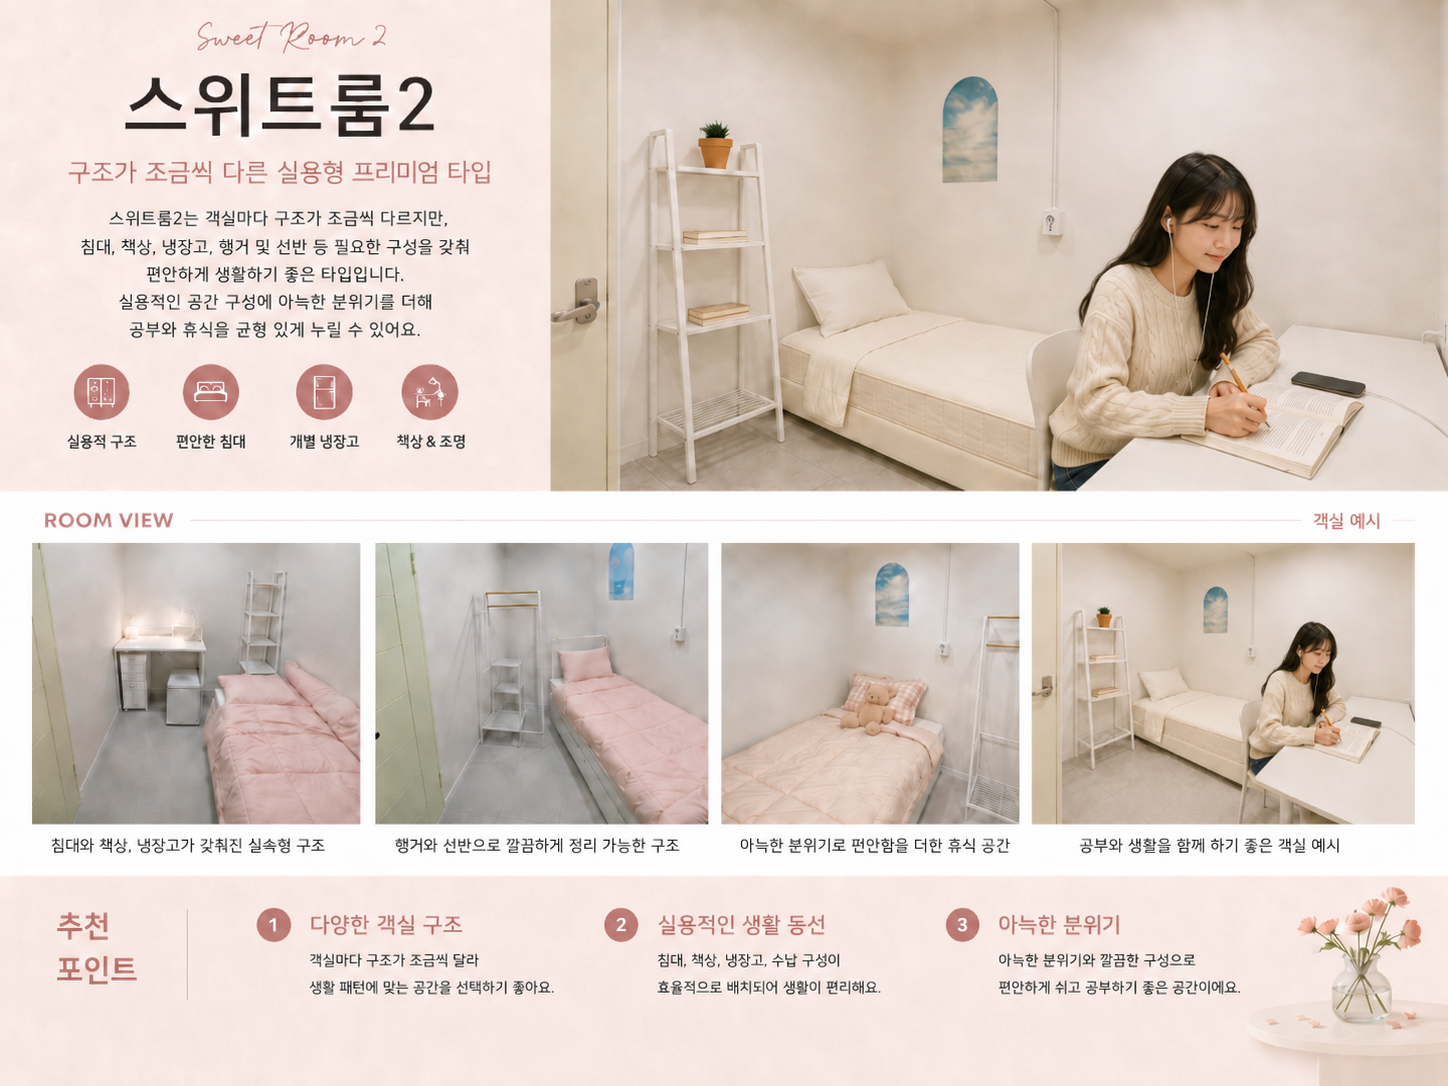
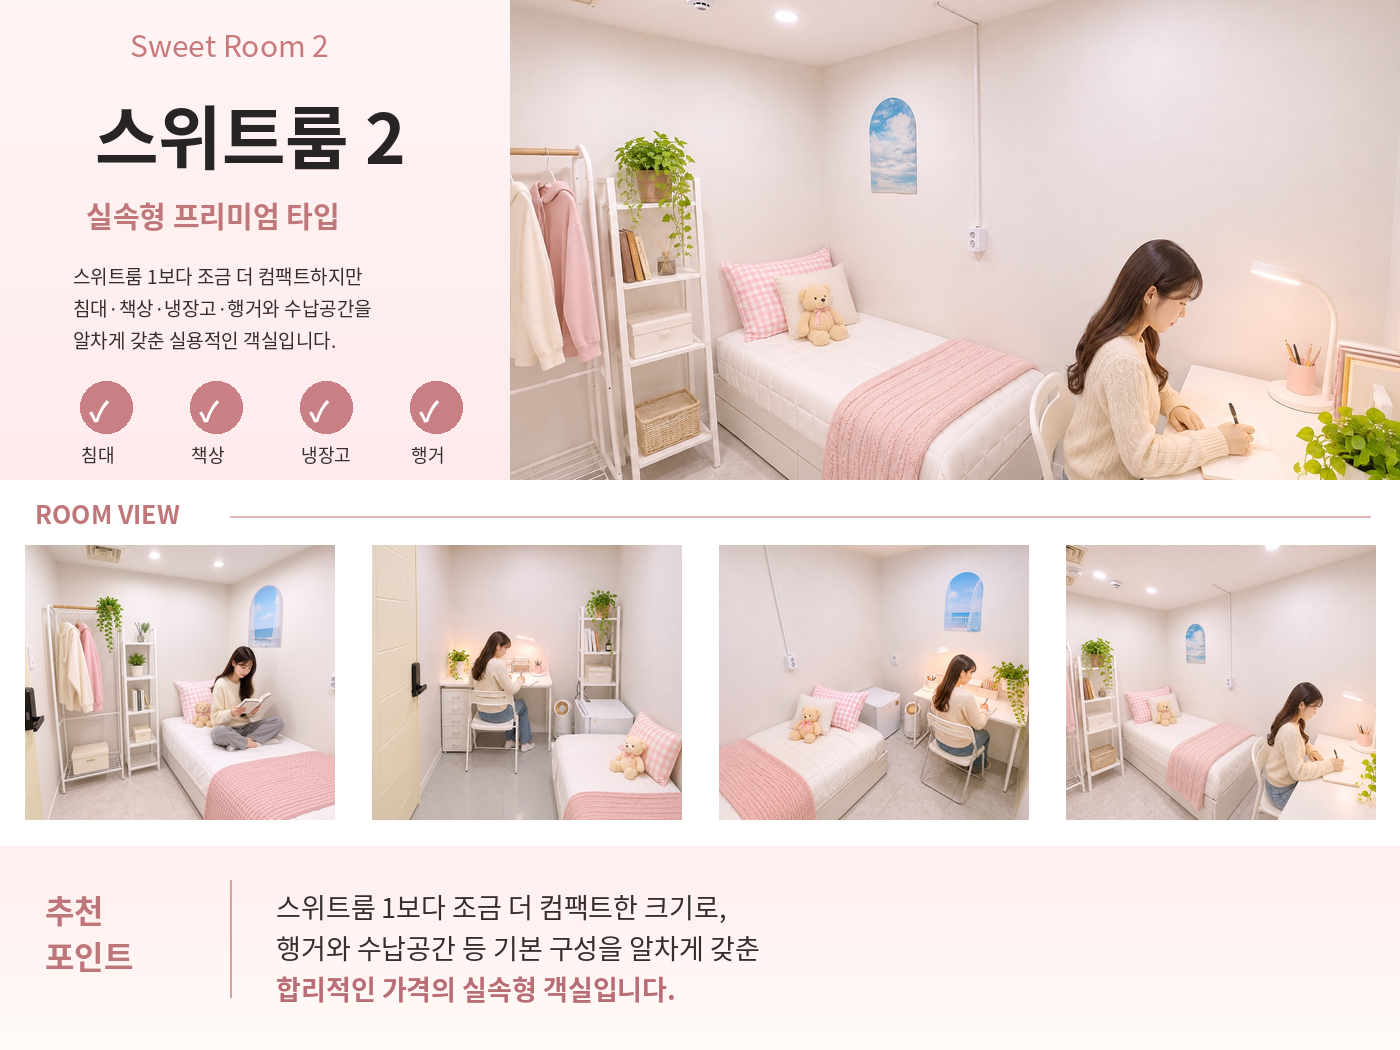
Add files via upload

diff --git a/rooms.html b/rooms.html
@@ -61,7 +61,7 @@
 <style id="suite1-zoom-20261116">
 .suite1-photo-map{position:relative;line-height:0}.suite1-photo-map>img{display:block;width:100%;height:auto}.suite1-hotspot{position:absolute;border:0;padding:0;background:transparent;cursor:zoom-in;touch-action:manipulation}.suite1-hotspot:focus-visible{outline:3px solid #257d63;outline-offset:-3px;background:rgba(255,255,255,.1)}.suite1-main{left:38.3%;top:0;width:61.7%;height:44.5%}.suite1-storage-open{left:4.3%;top:48.5%;width:15.2%;height:28.4%}.suite1-storage-closed{left:21.3%;top:48.5%;width:15.4%;height:28.4%}.suite1-study{left:39.7%;top:48.5%;width:54.2%;height:28.4%}.suite1-photo-tip{position:absolute;right:2%;top:41%;font:600 12px/1.3 sans-serif;background:rgba(27,42,37,.8);color:white;padding:6px 9px;border-radius:16px;pointer-events:none}.suite1-zoom-dialog{border:0;padding:0;background:#111;color:#fff;max-width:100vw;max-height:100dvh;width:100vw;height:100dvh;margin:auto}.suite1-zoom-dialog::backdrop{background:rgba(0,0,0,.94)}.suite1-zoom-wrap{display:flex;flex-direction:column;align-items:center;justify-content:center;height:100%;gap:12px;padding:48px 12px 64px;box-sizing:border-box}.suite1-zoom-viewport{width:100%;flex:1;min-height:0;display:flex;align-items:center;justify-content:center;overflow:auto;touch-action:pan-x pan-y pinch-zoom}.suite1-zoom-viewport img{display:block;max-width:100%;max-height:100%;width:auto;height:auto;object-fit:contain}.suite1-zoom-caption{font-size:14px;text-align:center}.suite1-zoom-close{position:absolute;right:14px;top:12px;z-index:2;border:0;border-radius:25px;background:#fff;color:#222;padding:9px 15px;font-weight:700;cursor:pointer}.suite1-zoom-nav{position:absolute;top:50%;transform:translateY(-50%);z-index:2;border:0;border-radius:50%;width:40px;height:40px;background:rgba(255,255,255,.85);font-size:25px;cursor:pointer}.suite1-zoom-prev{left:8px}.suite1-zoom-next{right:8px}.suite1-zoom-help{font-size:12px;color:#ddd;text-align:center}@media(max-width:600px){.suite1-photo-tip{font-size:10px;padding:4px 6px}.suite1-zoom-nav{width:34px;height:34px}}
 </style>
-<style id="suite2-zoom-style">.suite2-photo-map{position:relative;line-height:0}.suite2-photo-map>img{display:block;width:100%;height:auto}.suite2-hotspot{position:absolute;border:0;background:transparent;padding:0;cursor:zoom-in;touch-action:manipulation}.suite2-hotspot:focus-visible{outline:3px solid #257d63;outline-offset:-3px}.suite2-area-0{left:36.9475%;top:0.0000%;width:63.0525%;height:43.9227%}.suite2-area-1{left:2.1409%;top:48.6188%;width:22.0304%;height:25.2302%}.suite2-area-2{left:25.2072%;top:48.6188%;width:22.3757%;height:25.2302%}.suite2-area-3{left:48.4116%;top:48.6188%;width:20.0276%;height:25.2302%}.suite2-area-4{left:69.2680%;top:48.6188%;width:25.7597%;height:25.2302%}.suite2-photo-tip{position:absolute;right:2%;top:45%;font:600 12px/1.3 sans-serif;background:rgba(27,42,37,.8);color:white;padding:6px 9px;border-radius:16px;pointer-events:none}.suite2-dialog{border:0;padding:0;background:#111;color:#fff;width:100vw;height:100dvh;max-width:100vw;max-height:100dvh;margin:auto}.suite2-dialog::backdrop{background:rgba(0,0,0,.95)}.suite2-wrap{height:100%;box-sizing:border-box;display:flex;flex-direction:column;align-items:center;justify-content:center;gap:12px;padding:60px 52px 60px}.suite2-view{min-height:0;flex:1;width:100%;display:flex;align-items:center;justify-content:center;overflow:auto;touch-action:pan-x pan-y pinch-zoom}.suite2-view img{display:block;max-width:100%;max-height:100%;object-fit:contain}.suite2-caption{font:500 16px/1.5 sans-serif;text-align:center}.suite2-close{position:absolute;right:16px;top:16px;z-index:3;border:0;border-radius:22px;background:white;color:#111;padding:12px 18px;font-weight:700}.suite2-nav{position:absolute;top:50%;transform:translateY(-50%);border:0;border-radius:50%;background:#eee;color:#1675c5;font-size:35px;width:42px;height:48px}.suite2-prev{left:6px}.suite2-next{right:6px}@media(max-width:600px){.suite2-wrap{padding:65px 46px 70px}.suite2-nav{width:38px;height:44px}.suite2-caption{font-size:14px}}</style></head>
+<style id="suite2-zoom-style">.suite2-photo-map{position:relative;line-height:0}.suite2-photo-map>img{display:block;width:100%;height:auto}.suite2-hotspot{position:absolute;border:0;background:transparent;padding:0;cursor:zoom-in;touch-action:manipulation}.suite2-hotspot:focus-visible{outline:3px solid #257d63;outline-offset:-3px}.suite2-area-0{left:36.4286%;top:0;width:63.5714%;height:45.7143%}.suite2-area-1{left:1.7857%;top:51.9048%;width:22.1429%;height:26.1905%}.suite2-area-2{left:26.5714%;top:51.9048%;width:22.1429%;height:26.1905%}.suite2-area-3{left:51.3571%;top:51.9048%;width:22.1429%;height:26.1905%}.suite2-area-4{left:76.1429%;top:51.9048%;width:22.1429%;height:26.1905%}.suite2-photo-tip{position:absolute;right:2%;top:46%;font:600 12px/1.3 sans-serif;background:rgba(27,42,37,.8);color:white;padding:6px 9px;border-radius:16px;pointer-events:none}.suite2-dialog{border:0;padding:0;background:#111;color:#fff;width:100vw;height:100dvh;max-width:100vw;max-height:100dvh;margin:auto}.suite2-dialog::backdrop{background:rgba(0,0,0,.95)}.suite2-wrap{height:100%;box-sizing:border-box;display:flex;flex-direction:column;align-items:center;justify-content:center;gap:12px;padding:60px 52px 60px}.suite2-view{min-height:0;flex:1;width:100%;display:flex;align-items:center;justify-content:center;overflow:auto;touch-action:pan-x pan-y pinch-zoom}.suite2-view img{display:block;max-width:100%;max-height:100%;object-fit:contain}.suite2-caption{font:500 16px/1.5 sans-serif;text-align:center}.suite2-close{position:absolute;right:16px;top:16px;z-index:3;border:0;border-radius:22px;background:white;color:#111;padding:12px 18px;font-weight:700}.suite2-nav{position:absolute;top:50%;transform:translateY(-50%);border:0;border-radius:50%;background:#eee;color:#1675c5;font-size:35px;width:42px;height:48px}.suite2-prev{left:6px}.suite2-next{right:6px}@media(max-width:600px){.suite2-wrap{padding:65px 46px 70px}.suite2-nav{width:38px;height:44px}.suite2-caption{font-size:14px}}</style></head>
 <body>
 <header class="sub-header sub-header--rooms">
 <h1>
@@ -292,5 +292,5 @@
 </script>
 <dialog id="suite1-zoom-dialog" class="suite1-zoom-dialog" aria-label="스위트룸1 사진 확대"><button type="button" class="suite1-zoom-close" aria-label="닫기">닫기 ✕</button><button type="button" class="suite1-zoom-nav suite1-zoom-prev" aria-label="이전 사진">‹</button><div class="suite1-zoom-wrap"><div class="suite1-zoom-viewport"><img id="suite1-zoom-image" alt="스위트룸1 확대 사진"/></div><div class="suite1-zoom-caption" aria-live="polite"></div><div class="suite1-zoom-help">좌우 버튼 또는 손가락으로 사진 넘기기 · 두 손가락으로 확대</div></div><button type="button" class="suite1-zoom-nav suite1-zoom-next" aria-label="다음 사진">›</button></dialog>
 <script id="suite1-zoom-script-20261116">(function(){var d=document.getElementById('suite1-zoom-dialog'),img=document.getElementById('suite1-zoom-image'),cap=d.querySelector('.suite1-zoom-caption'),vp=d.querySelector('.suite1-zoom-viewport');var photos=[["suite1-full.jpg","객실 전체"],["suite1-wardrobe-open.jpg","옷장 내부"],["suite1-wardrobe-closed.jpg","옷장 외부"],["suite1-study.jpg","실사용 공간"]];var current=0,startX=null;function show(i){current=(i+photos.length)%photos.length;img.src=photos[current][0];img.alt='스위트룸1 '+photos[current][1];cap.textContent=photos[current][1]+' ('+(current+1)+' / '+photos.length+')';vp.scrollTop=vp.scrollLeft=0;}document.querySelectorAll('#suite1 .suite1-hotspot').forEach(function(b){b.addEventListener('click',function(){show(Number(b.dataset.photo));if(d.showModal)d.showModal();else d.setAttribute('open','');});});d.querySelector('.suite1-zoom-close').addEventListener('click',function(){d.close();});d.querySelector('.suite1-zoom-prev').addEventListener('click',function(){show(current-1);});d.querySelector('.suite1-zoom-next').addEventListener('click',function(){show(current+1);});d.addEventListener('click',function(e){if(e.target===d)d.close();});d.addEventListener('keydown',function(e){if(e.key==='ArrowLeft')show(current-1);if(e.key==='ArrowRight')show(current+1);});vp.addEventListener('touchstart',function(e){if(e.touches.length===1)startX=e.touches[0].clientX;else startX=null;},{passive:true});vp.addEventListener('touchend',function(e){if(startX===null||e.changedTouches.length!==1)return;var delta=e.changedTouches[0].clientX-startX;if(Math.abs(delta)>65)show(current+(delta<0?1:-1));startX=null;},{passive:true});})();</script>
-<dialog id="suite2-zoom-dialog" class="suite2-dialog" aria-label="스위트룸2 사진 확대"><button type="button" class="suite2-close">닫기 ✕</button><button type="button" class="suite2-nav suite2-prev" aria-label="이전 사진">‹</button><div class="suite2-wrap"><div class="suite2-view"><img id="suite2-zoom-image" alt="스위트룸2 확대 사진"></div><div class="suite2-caption" aria-live="polite"></div></div><button type="button" class="suite2-nav suite2-next" aria-label="다음 사진">›</button></dialog><script id="suite2-zoom-script">(function(){const d=document.getElementById('suite2-zoom-dialog'),img=document.getElementById('suite2-zoom-image'),caption=d.querySelector('.suite2-caption');const photos=["suite2-full.jpg?v=20261116-match2","suite2-desk.jpg?v=20261116-match2","suite2-shelf.jpg?v=20261116-match2","suite2-bed.jpg?v=20261116-match2","suite2-study.jpg?v=20261116-match2"];const names=['객실 전체','침대·책상·냉장고','행거와 선반','침대 휴식 공간','공부와 생활 공간'];let current=0,startX=null;function show(i){current=(i+photos.length)%photos.length;img.src=photos[current];img.alt='스위트룸2 '+names[current];caption.textContent=names[current]+' ('+(current+1)+' / '+photos.length+')'}document.querySelectorAll('#suite2 .suite2-hotspot').forEach(b=>b.addEventListener('click',()=>{show(Number(b.dataset.photo));d.showModal()}));d.querySelector('.suite2-close').addEventListener('click',()=>d.close());d.querySelector('.suite2-prev').addEventListener('click',()=>show(current-1));d.querySelector('.suite2-next').addEventListener('click',()=>show(current+1));d.addEventListener('click',e=>{if(e.target===d)d.close()});d.addEventListener('keydown',e=>{if(e.key==='ArrowLeft')show(current-1);if(e.key==='ArrowRight')show(current+1)});d.addEventListener('touchstart',e=>{if(e.touches.length===1)startX=e.touches[0].clientX},{passive:true});d.addEventListener('touchend',e=>{if(startX===null)return;const dx=e.changedTouches[0].clientX-startX;if(Math.abs(dx)>65)show(current+(dx<0?1:-1));startX=null},{passive:true})})();</script></body>
+<dialog id="suite2-zoom-dialog" class="suite2-dialog" aria-label="스위트룸2 사진 확대"><button type="button" class="suite2-close">닫기 ✕</button><button type="button" class="suite2-nav suite2-prev" aria-label="이전 사진">‹</button><div class="suite2-wrap"><div class="suite2-view"><img id="suite2-zoom-image" alt="스위트룸2 확대 사진"></div><div class="suite2-caption" aria-live="polite"></div></div><button type="button" class="suite2-nav suite2-next" aria-label="다음 사진">›</button></dialog><script id="suite2-zoom-script">(function(){const d=document.getElementById('suite2-zoom-dialog'),img=document.getElementById('suite2-zoom-image'),caption=d.querySelector('.suite2-caption');const photos=["suite2-new-2.jpg","suite2-new-1.jpg","suite2-new-3.jpg","suite2-new-4.jpg","suite2-new-2.jpg"];const names=["공부와 생활 공간","행거와 침대 공간","책상과 침대 공간","침대·책상·냉장고","공부와 생활 공간"];let current=0,startX=null;function show(i){current=(i+photos.length)%photos.length;img.src=photos[current];img.alt='스위트룸2 '+names[current];caption.textContent=names[current]+' ('+(current+1)+' / '+photos.length+')'}document.querySelectorAll('#suite2 .suite2-hotspot').forEach(b=>b.addEventListener('click',()=>{show(Number(b.dataset.photo));d.showModal()}));d.querySelector('.suite2-close').addEventListener('click',()=>d.close());d.querySelector('.suite2-prev').addEventListener('click',()=>show(current-1));d.querySelector('.suite2-next').addEventListener('click',()=>show(current+1));d.addEventListener('click',e=>{if(e.target===d)d.close()});d.addEventListener('keydown',e=>{if(e.key==='ArrowLeft')show(current-1);if(e.key==='ArrowRight')show(current+1)});d.addEventListener('touchstart',e=>{if(e.touches.length===1)startX=e.touches[0].clientX},{passive:true});d.addEventListener('touchend',e=>{if(startX===null)return;const dx=e.changedTouches[0].clientX-startX;if(Math.abs(dx)>65)show(current+(dx<0?1:-1));startX=null},{passive:true})})();</script></body>
 </html>
